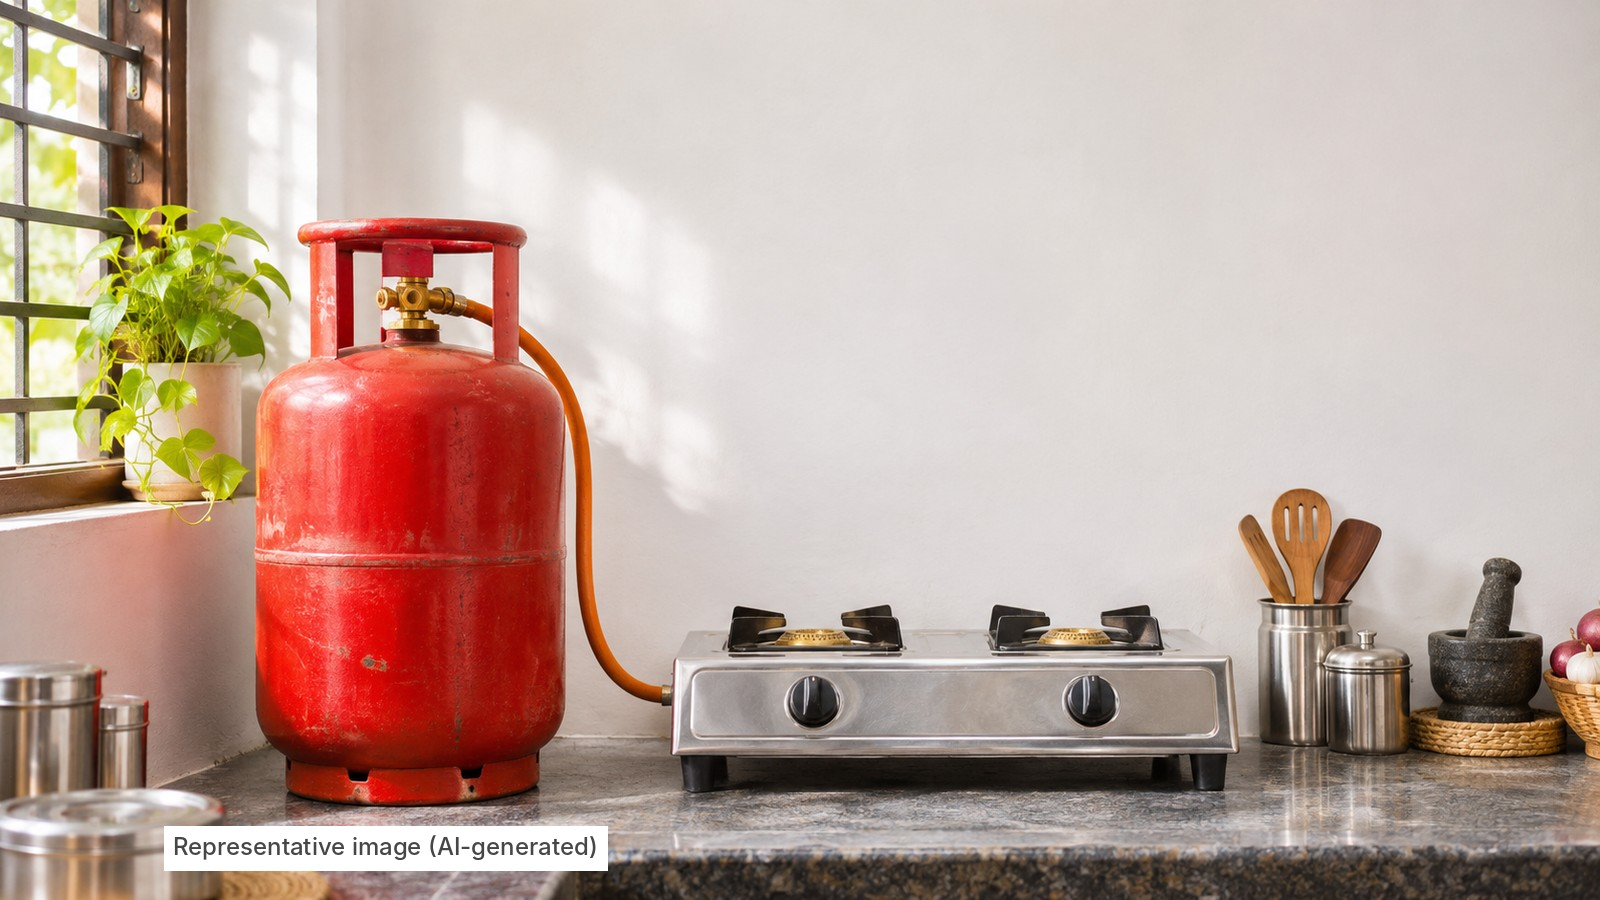
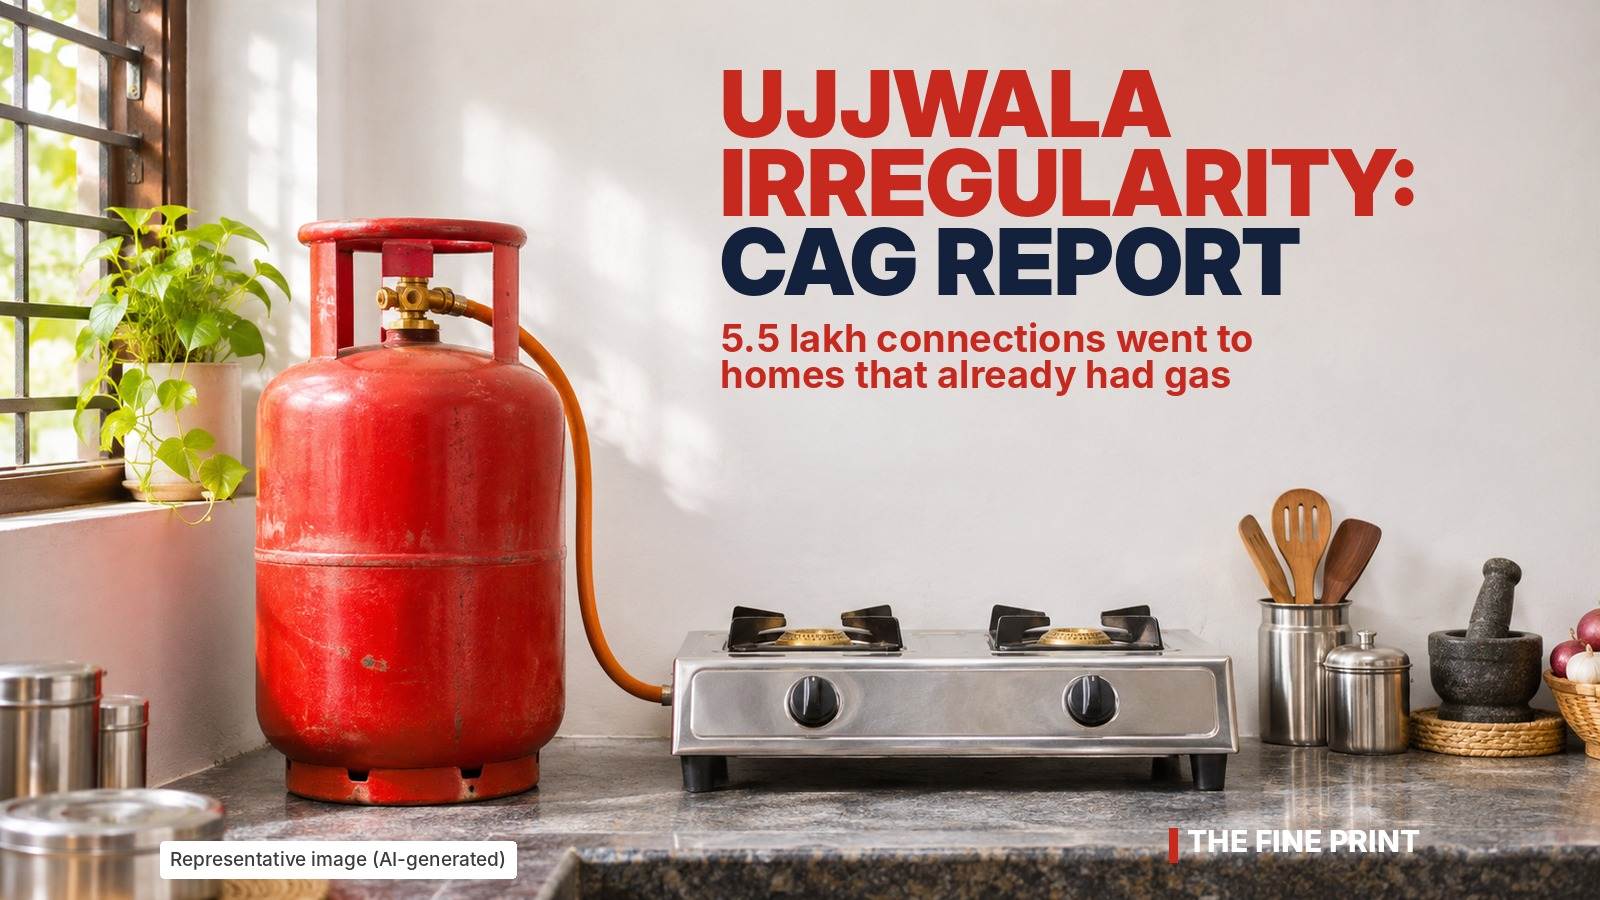
Covers with headline text kept inside the safe area so phones and tablets don't crop it
Claude-Session: https://claude.ai/code/session_01YJSrFxAih1XvDkkjy8dWZU

Changed region(s): [[0.4375, 0.0622, 0.9062, 0.4356], [0.0938, 0.9022, 0.4062, 0.9956], [0.7188, 0.9022, 0.875, 0.9644]]

diff --git a/src/content/blog/ujjwala-cag-report-lpg-connections.md b/src/content/blog/ujjwala-cag-report-lpg-connections.md
@@ -5,7 +5,7 @@ description: "CAG Report No. 11 of 2026 finds 5,50,446 Ujjwala (PMUY) connection
 seoTitle: "CAG: 5.5 lakh Ujjwala LPG connections to homes that had gas"
 date: "2026-11-12"
 cover: ujjwala-cag-cover.jpg
-coverAlt: "Red LPG gas cylinder connected to a two-burner stove on a kitchen counter in an Indian home (representative AI-generated image)"
+coverAlt: "Red LPG gas cylinder beside a two-burner stove in an Indian kitchen, with the headline: Ujjwala irregularity, CAG report, 5.5 lakh connections went to homes that already had gas (representative AI-generated image)"
 ogImage: og/ujjwala-og.jpg
 section: "investigations"
 draft: false

diff --git a/src/content/blog/us-sanctions-kerala-company-iran-ship-flags.md b/src/content/blog/us-sanctions-kerala-company-iran-ship-flags.md
@@ -6,7 +6,7 @@ seoTitle: "US sanctions Kerala company in Iran fake ship-flag case"
 date: "2026-11-15"
 section: "investigations"
 cover: kerala-sanctions-cover.jpg
-coverAlt: "Oil tanker at anchor on calm open sea under a clear sky, flying a plain, unidentifiable flag (representative AI-generated image)"
+coverAlt: "Oil tanker at anchor on open sea flying a plain, unidentifiable flag, with the headline: Iran sanctions, Kerala company on US list, firm set up in February linked to fake ship flags network, says US (representative AI-generated image)"
 ogImage: og/kerala-sanctions-og.jpg
 draft: false
 ---
